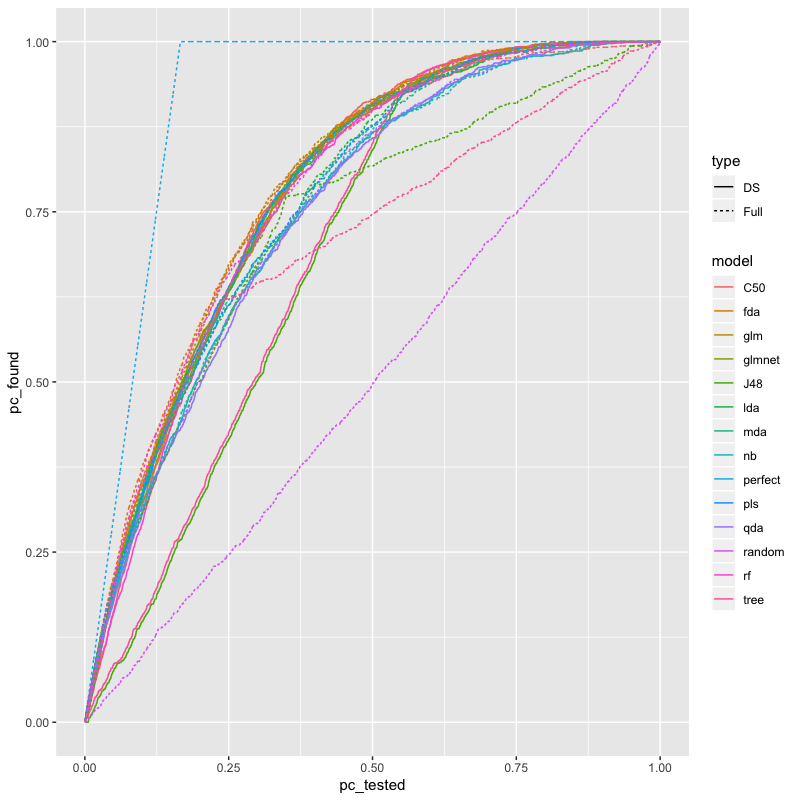
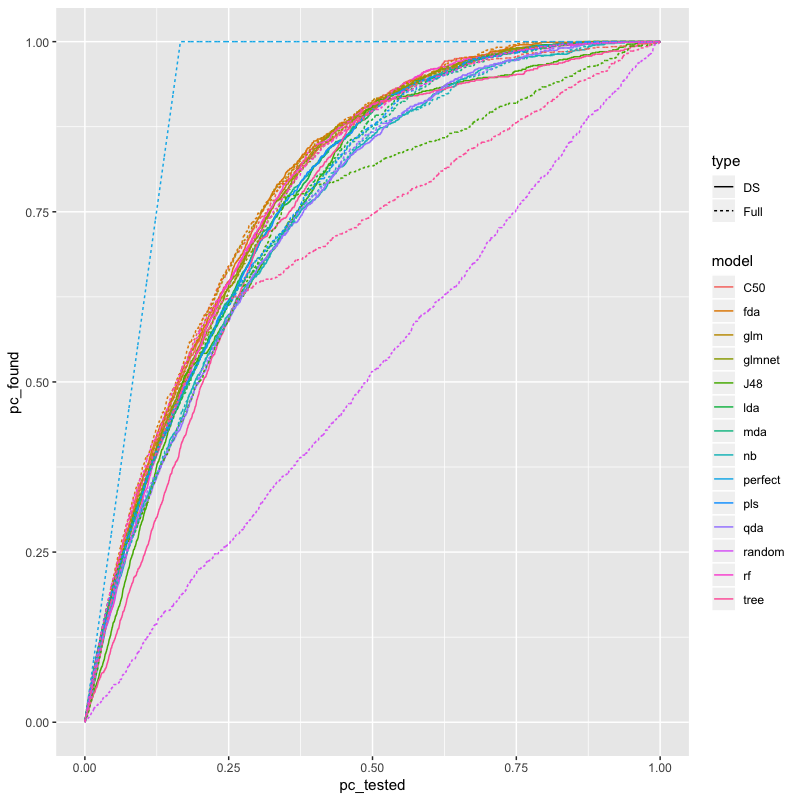
final rerun, making the downsampling a bit less aggressive

diff --git a/chapter-16/README.md b/chapter-16/README.md
@@ -155,19 +155,19 @@ In terms of percentage to find 60% of custs, the best is fda trained on the full
 |model   |        DS|      Full|
 |:-------|---------:|---------:|
 |perfect |        NA| 0.0996780|
-|fda     | 0.2246588| 0.2073302|
-|C50     | 0.2243521| 0.2102438|
-|glm     | 0.2307928| 0.2133108|
-|rf      | 0.2297194| 0.2166846|
-|glmnet  | 0.2297194| 0.2287993|
-|tree    | 0.3497930| 0.2291060|
-|mda     | 0.2332464| 0.2375403|
-|pls     | 0.2245054| 0.2386137|
-|lda     | 0.2315596| 0.2407606|
-|qda     | 0.2611563| 0.2518019|
-|J48     | 0.3556203| 0.2534887|
-|nb      | 0.2525686| 0.2541021|
-|random  |        NA| 0.6009814|
+|fda     | 0.2176047| 0.2097838|
+|C50     | 0.2218985| 0.2102438|
+|glm     | 0.2232786| 0.2133108|
+|rf      | 0.2249655| 0.2166846|
+|glmnet  | 0.2295660| 0.2287993|
+|tree    | 0.2536421| 0.2291060|
+|mda     | 0.2366202| 0.2375403|
+|pls     | 0.2357000| 0.2386137|
+|lda     | 0.2410673| 0.2407606|
+|qda     | 0.2554823| 0.2518019|
+|J48     | 0.2528753| 0.2534887|
+|nb      | 0.2528753| 0.2541021|
+|random  |        NA| 0.5873332|
 
 One option not explored is monkeying with the 50% cutoff. Might be something in it. Could trade false positives for fewer false negs (and vice versa).
 
